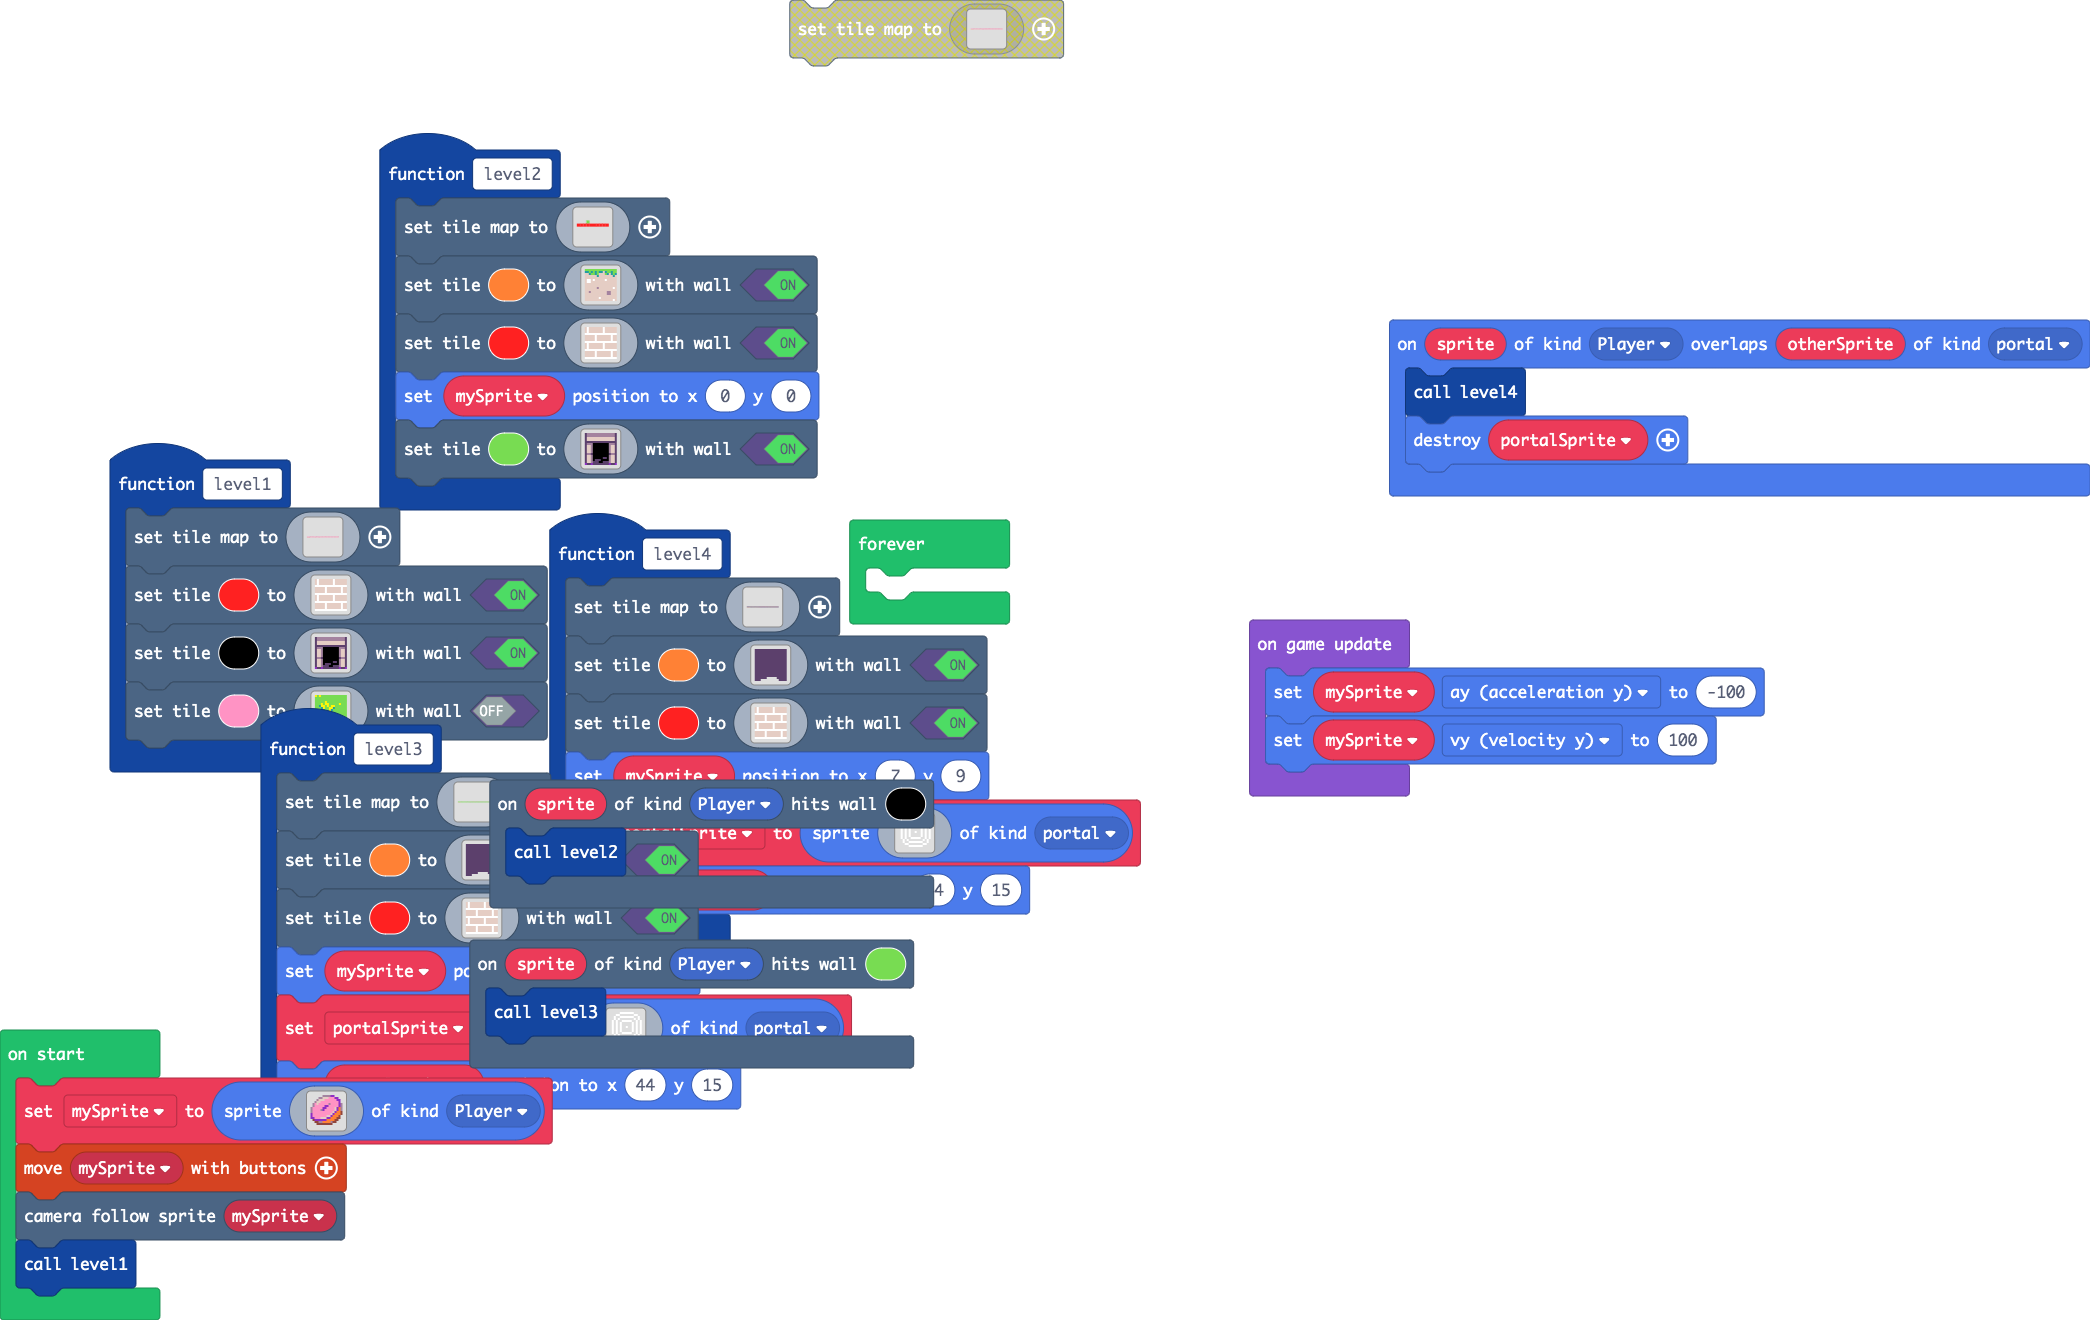
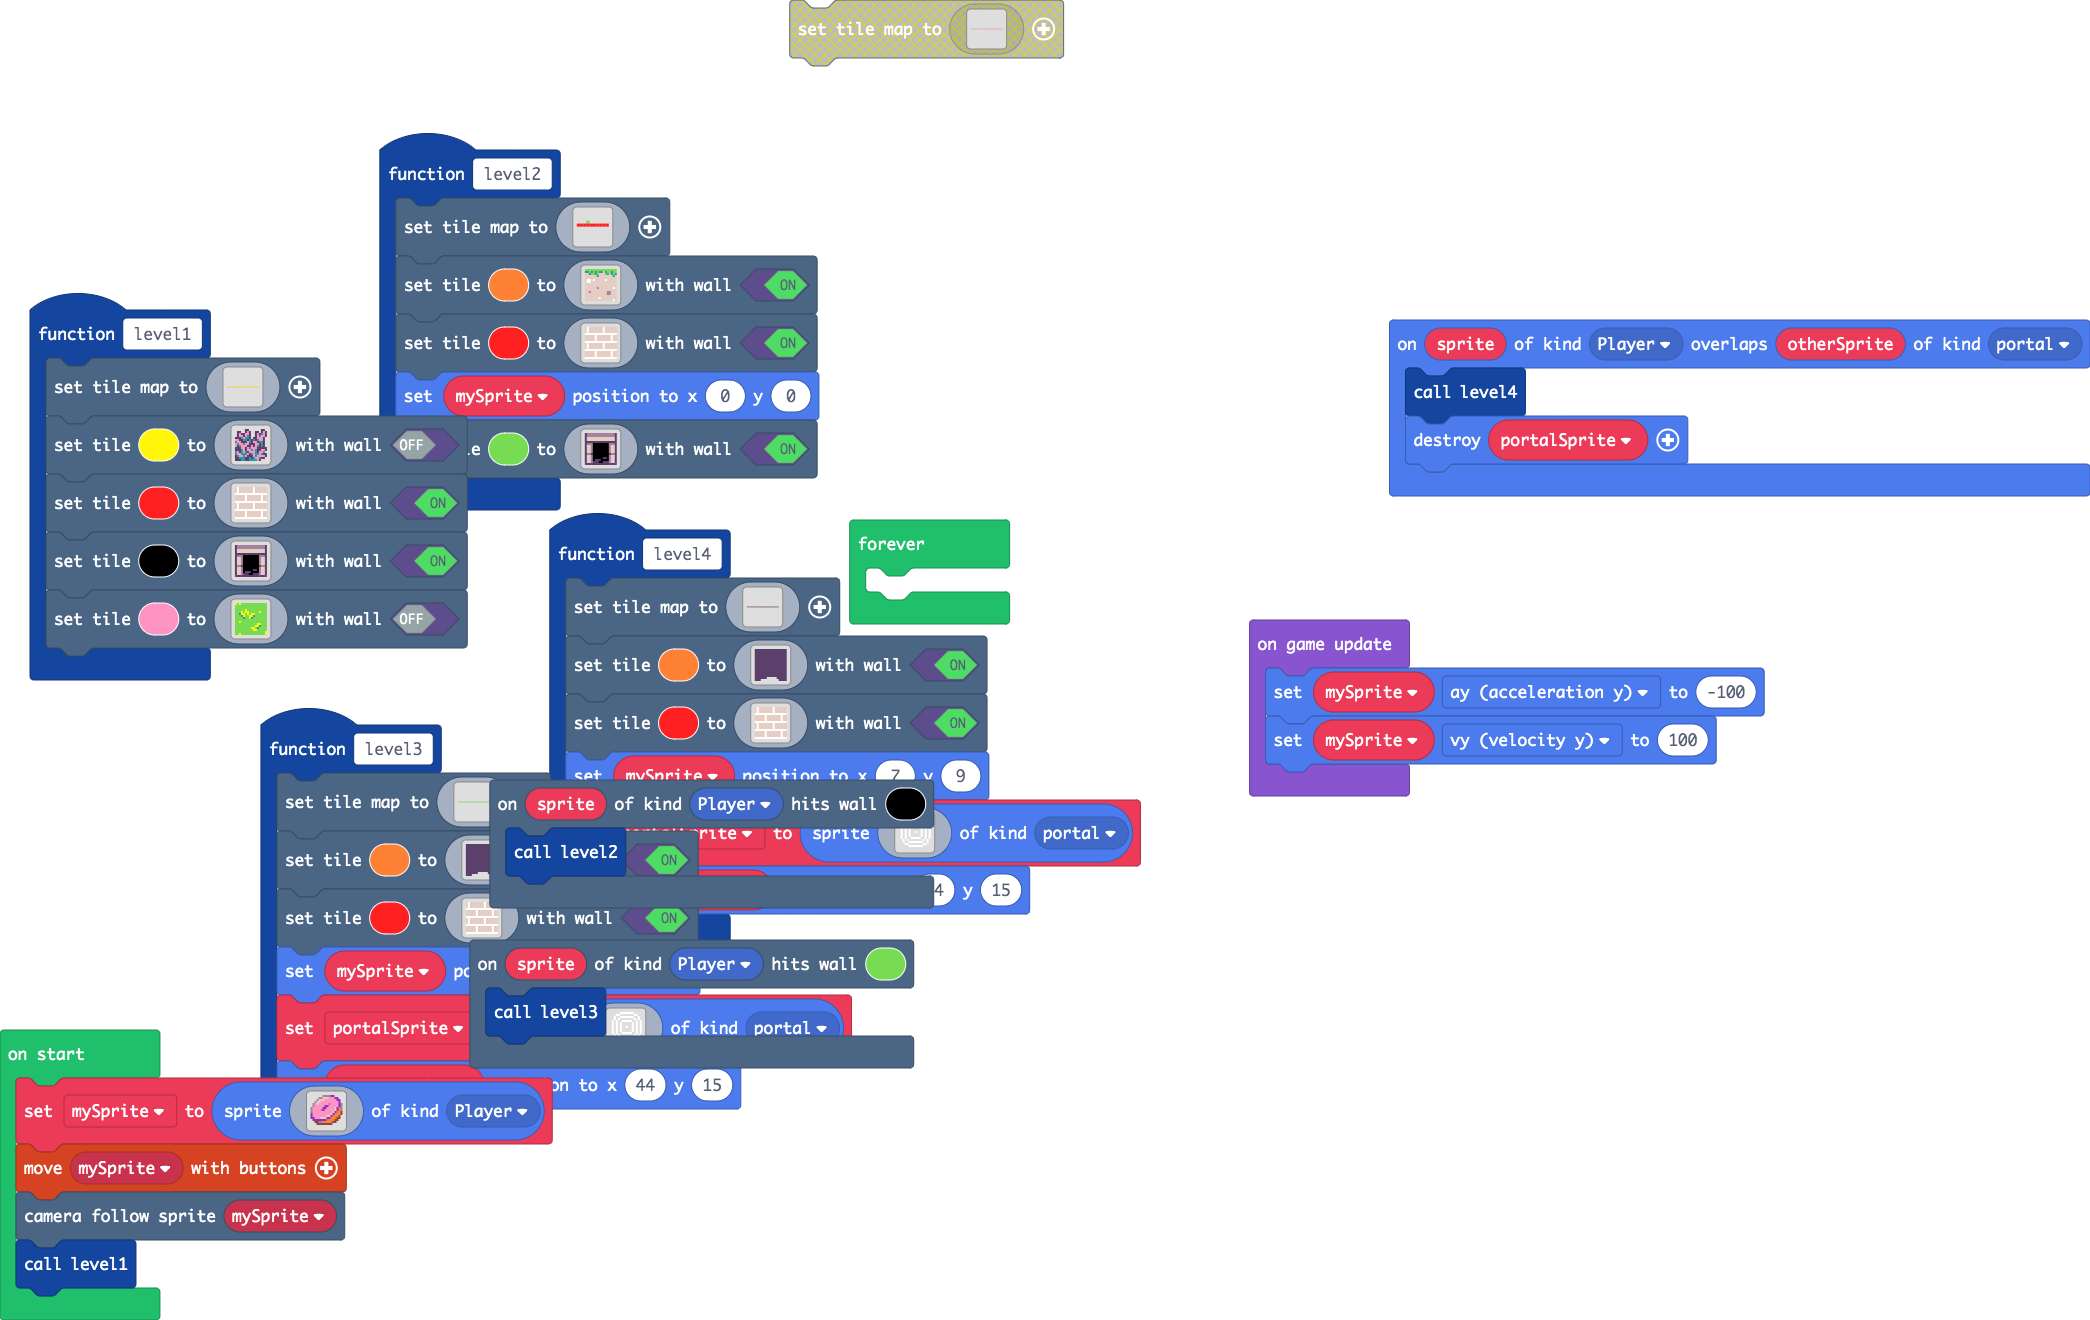
Update main.blocks, main.ts

Changed region(s): [[0.0, 0.2174, 0.2799, 0.5902]]

diff --git a/main.ts b/main.ts
@@ -92,15 +92,33 @@ d d d d d 1 d d d d d d d 1 d d
 }
 function level1 () {
     scene.setTileMap(img`
-3 3 3 3 3 3 3 3 3 3 3 3 3 3 3 3 3 3 3 3 3 3 3 3 3 3 3 3 3 3 3 3 3 3 3 3 3 3 3 3 3 3 3 3 3 3 3 3 3 3 3 3 3 3 3 3 3 3 3 3 3 3 3 3 3 3 3 3 3 3 3 3 3 3 3 3 3 3 3 3 3 3 3 3 3 3 3 3 3 3 3 3 3 3 3 3 3 3 3 3 3 3 3 3 3 3 3 3 3 3 3 3 3 3 3 3 3 3 3 3 3 3 3 3 3 3 3 3 3 3 3 3 3 3 3 3 3 3 3 3 3 3 3 3 3 3 3 3 3 3 
-3 3 3 3 3 3 3 3 3 3 3 3 3 3 3 3 3 3 3 3 3 3 3 3 3 3 3 3 3 3 3 3 3 3 3 3 3 3 3 3 3 3 3 3 3 3 3 3 3 a 3 3 3 3 3 3 3 3 3 3 3 3 3 3 3 3 3 3 3 3 3 3 3 3 3 3 3 3 3 3 3 3 3 3 3 3 3 3 3 3 3 3 3 3 3 3 3 3 3 3 3 3 3 3 3 3 3 3 3 3 3 3 3 3 3 3 3 3 3 3 3 3 3 3 3 3 3 3 3 3 3 3 3 3 3 3 3 3 3 3 3 3 3 3 3 3 3 3 3 3 
-3 3 3 3 3 3 3 3 3 3 3 3 3 3 3 3 3 3 3 3 3 3 3 3 3 3 3 3 3 3 3 3 3 3 3 3 3 3 3 3 3 3 3 3 3 3 3 3 3 3 3 3 3 3 3 3 3 3 3 3 3 3 3 3 3 3 3 3 3 3 3 3 3 3 3 3 3 3 3 3 3 3 3 3 3 3 3 3 3 3 3 3 3 3 3 3 3 3 3 3 3 3 3 3 3 3 3 3 3 3 3 3 3 3 3 3 3 3 3 3 3 3 3 3 3 3 3 3 3 3 3 3 3 3 3 3 3 3 3 3 3 3 3 3 3 3 3 3 3 3 
-3 3 3 3 3 3 3 3 3 3 3 3 3 3 3 3 f 3 3 3 3 3 3 3 3 3 3 3 3 3 3 3 3 3 3 3 3 3 3 3 3 3 3 3 f 3 3 3 3 3 3 3 3 3 3 3 3 3 3 3 3 3 3 3 3 3 3 3 3 3 3 2 3 3 3 3 3 3 3 3 3 3 3 3 3 2 2 2 3 3 3 3 3 3 3 3 3 3 3 3 3 3 3 3 3 3 3 3 3 3 3 3 3 3 3 3 3 3 3 3 3 3 3 3 3 3 3 3 3 3 3 3 3 3 3 3 3 3 3 3 3 3 3 3 3 3 3 3 f 3 
-2 2 3 3 3 3 3 3 3 3 3 3 3 2 2 2 2 2 2 2 2 2 2 2 2 2 2 2 2 2 2 2 2 2 2 2 3 3 3 3 3 3 2 2 2 2 2 2 2 2 2 2 2 2 2 3 3 3 3 3 2 2 2 2 2 2 2 2 2 2 2 2 2 2 2 2 2 2 2 2 2 2 2 2 2 3 3 3 2 2 2 2 2 2 2 2 2 2 2 2 2 2 2 2 2 2 2 2 2 2 2 2 2 2 2 2 2 2 2 2 2 2 2 2 2 2 2 2 2 2 2 2 2 2 2 2 2 2 2 2 2 2 2 2 2 2 2 2 2 3 
-3 2 3 3 3 3 3 3 3 3 3 3 3 2 3 3 3 3 3 3 3 3 3 3 3 3 3 3 3 3 3 3 3 3 3 3 2 2 2 2 2 2 3 3 3 3 3 3 3 3 3 3 3 3 3 2 2 2 2 2 2 3 3 3 3 3 3 3 3 3 3 3 3 3 3 3 3 3 3 3 3 3 3 3 3 3 3 3 3 3 3 3 3 3 3 3 3 3 3 3 3 3 3 3 3 3 3 3 3 3 3 3 3 3 3 3 3 3 3 3 3 3 3 3 3 3 3 3 3 3 3 3 3 3 3 3 3 3 3 3 3 3 3 3 3 3 3 3 3 3 
-3 2 2 2 2 2 2 2 2 2 2 2 2 2 3 3 3 3 3 3 3 3 3 3 3 3 3 3 3 3 3 3 3 3 3 3 3 3 3 3 3 3 3 3 3 3 3 3 3 3 3 3 3 3 3 3 3 3 3 3 3 3 3 3 3 3 3 3 3 3 3 3 3 3 3 3 3 3 3 3 3 3 3 3 3 3 3 3 3 3 3 3 3 3 3 3 3 3 3 3 3 3 3 3 3 3 3 3 3 3 3 3 3 3 3 3 3 3 3 3 3 3 3 3 3 3 3 3 3 3 3 3 3 3 3 3 3 3 3 3 3 3 3 3 3 3 3 3 3 3 
-3 3 3 3 3 3 3 3 3 3 3 3 3 3 3 3 3 3 3 3 3 3 3 3 3 3 3 3 3 3 3 3 3 3 3 3 3 3 3 3 3 3 3 3 3 3 3 3 3 3 3 3 3 3 3 3 3 3 3 3 3 3 3 3 3 3 3 3 3 3 3 3 3 3 3 3 3 3 3 3 3 3 3 3 3 3 3 3 3 3 3 3 3 3 3 3 3 3 3 3 3 3 3 3 3 3 3 3 3 3 3 3 3 3 3 3 3 3 3 3 3 3 3 3 3 3 3 3 3 3 3 3 3 3 3 3 3 3 3 3 3 3 3 3 3 3 3 3 3 3 
+5 5 5 5 5 5 5 5 5 5 5 5 5 5 5 5 5 5 5 5 5 5 5 5 5 5 5 5 5 5 5 5 5 5 5 5 5 5 5 5 5 5 5 5 5 5 5 5 5 5 5 5 5 5 5 5 5 5 5 5 5 5 5 5 5 5 5 5 5 5 5 5 5 5 5 5 5 5 5 5 5 5 5 5 5 5 5 5 5 5 5 5 5 5 5 5 5 5 5 5 5 5 5 5 5 5 5 5 5 5 5 5 5 5 5 5 5 5 5 5 5 5 5 5 5 5 5 5 5 5 5 5 5 5 5 5 5 5 5 5 5 5 5 5 5 5 5 5 5 5 
+5 5 5 5 5 5 5 5 5 5 5 5 5 5 5 5 5 5 5 5 5 5 5 5 5 5 5 5 5 5 5 5 5 5 5 5 5 5 5 5 5 5 5 5 5 5 5 5 5 a 5 5 5 5 5 5 5 5 5 5 5 5 5 5 5 5 5 5 5 5 5 5 5 5 5 5 5 5 5 5 5 5 5 5 5 5 5 5 5 5 5 5 5 5 5 5 5 5 5 5 5 5 5 5 5 5 5 5 5 5 5 5 5 5 5 5 5 5 5 5 5 5 5 5 5 5 5 5 5 5 5 5 5 5 5 5 5 5 5 5 5 5 5 5 5 5 5 5 5 5 
+5 5 5 5 5 5 5 5 5 5 5 5 5 5 5 5 5 5 5 5 5 5 5 5 5 5 5 5 5 5 5 5 5 5 5 5 5 5 5 5 5 5 5 5 5 5 5 5 5 5 5 5 5 5 5 5 5 5 5 5 5 5 5 5 5 5 5 5 5 5 5 5 5 5 5 5 5 5 5 5 5 5 5 5 5 5 5 5 5 5 5 5 5 5 5 5 5 5 5 5 5 5 5 5 5 5 5 5 5 5 5 5 5 5 5 5 5 5 5 5 5 5 5 5 5 5 5 5 5 5 5 5 5 5 5 5 5 5 5 5 5 5 5 5 5 5 5 5 5 5 
+5 5 5 5 5 5 5 5 5 5 5 5 5 5 5 5 f 5 5 5 5 5 5 5 5 5 5 5 5 5 5 5 5 5 5 5 5 5 5 5 5 5 5 5 f 5 5 5 5 5 5 5 5 5 5 5 5 5 5 5 5 5 5 5 5 5 5 5 5 5 5 2 5 5 5 5 5 5 5 5 5 5 5 5 5 2 2 2 5 5 5 5 5 5 5 5 5 5 5 5 5 5 5 5 5 5 5 5 5 5 5 5 5 5 5 5 5 5 5 5 5 5 5 5 5 5 5 5 5 5 5 5 5 5 5 5 5 5 5 5 5 5 5 5 5 5 5 5 f 5 
+2 2 5 5 5 5 5 5 5 5 5 5 5 2 2 2 2 2 2 2 2 2 2 2 2 2 2 2 2 2 2 2 2 2 2 2 5 5 5 5 5 5 2 2 2 2 2 2 2 2 2 2 2 2 2 5 5 5 5 5 2 2 2 2 2 2 2 2 2 2 2 2 2 2 2 2 2 2 2 2 2 2 2 2 2 5 5 5 2 2 2 2 2 2 2 2 2 2 2 2 2 2 2 2 2 2 2 2 2 2 2 2 2 2 2 2 2 2 2 2 2 2 2 2 2 2 2 2 2 2 2 2 2 2 2 2 2 2 2 2 2 2 2 2 2 2 2 2 2 5 
+5 2 5 5 5 5 5 5 5 5 5 5 5 2 5 5 5 5 5 5 5 5 5 5 5 5 5 5 5 5 5 5 5 5 5 5 2 2 2 2 2 2 5 5 5 5 5 5 5 5 5 5 5 5 5 2 2 2 2 2 2 5 5 5 5 5 5 5 5 5 5 5 5 5 5 5 5 5 5 5 5 5 5 5 5 5 5 5 5 5 5 5 5 5 5 5 5 5 5 5 5 5 5 5 5 5 5 5 5 5 5 5 5 5 5 5 5 5 5 5 5 5 5 5 5 5 5 5 5 5 5 5 5 5 5 5 5 5 5 5 5 5 5 5 5 5 5 5 5 5 
+5 2 2 2 2 2 2 2 2 2 2 2 2 2 5 5 5 5 5 5 5 5 5 5 5 5 5 5 5 5 5 5 5 5 5 5 5 5 5 5 5 5 5 5 5 5 5 5 5 5 5 5 5 5 5 5 5 5 5 5 5 5 5 5 5 5 5 5 5 5 5 5 5 5 5 5 5 5 5 5 5 5 5 5 5 5 5 5 5 5 5 5 5 5 5 5 5 5 5 5 5 5 5 5 5 5 5 5 5 5 5 5 5 5 5 5 5 5 5 5 5 5 5 5 5 5 5 5 5 5 5 5 5 5 5 5 5 5 5 5 5 5 5 5 5 5 5 5 5 5 
+5 5 5 5 5 5 5 5 5 5 5 5 5 5 5 5 5 5 5 5 5 5 5 5 5 5 5 5 5 5 5 5 5 5 5 5 5 5 5 5 5 5 5 5 5 5 5 5 5 5 5 5 5 5 5 5 5 5 5 5 5 5 5 5 5 5 5 5 5 5 5 5 5 5 5 5 5 5 5 5 5 5 5 5 5 5 5 5 5 5 5 5 5 5 5 5 5 5 5 5 5 5 5 5 5 5 5 5 5 5 5 5 5 5 5 5 5 5 5 5 5 5 5 5 5 5 5 5 5 5 5 5 5 5 5 5 5 5 5 5 5 5 5 5 5 5 5 5 5 5 
 `)
+    scene.setTile(5, img`
+. . . . . c c . . . . . . c c . 
+. c c . . c 3 c . . c c . c 3 c 
+. c 3 c c 3 3 c . . c 3 c 6 3 c 
+. c 3 3 c 3 6 c . . c 3 6 3 3 c 
+c c c 6 3 6 6 c . c c 3 3 3 c . 
+3 3 c c 6 6 c 6 c 6 c 6 3 3 c . 
+6 3 3 c c c 3 6 c 3 3 c 6 6 c . 
+3 6 3 3 6 3 3 c c c 3 3 c 6 c . 
+3 c 6 3 3 3 c c 3 c 3 6 c 6 c . 
+c c c 3 3 c 3 6 3 3 3 c c c c c 
+c c c 6 3 c 3 3 6 3 6 c c 3 3 c 
+6 3 c 6 3 6 c 3 3 3 6 c 3 3 6 . 
+6 3 3 6 6 6 3 c 6 3 6 6 3 6 c c 
+c 6 3 3 6 3 c c c 3 6 3 3 3 3 c 
+c c 6 6 6 c c 6 c 6 3 3 6 c c . 
+c c c 6 6 c c 6 6 6 6 3 c . . . 
+`, false)
     scene.setTile(2, img`
 d 1 d d d d d d d 1 d d d d d d 
 d 1 d d d d d d d 1 d d d d d d 
